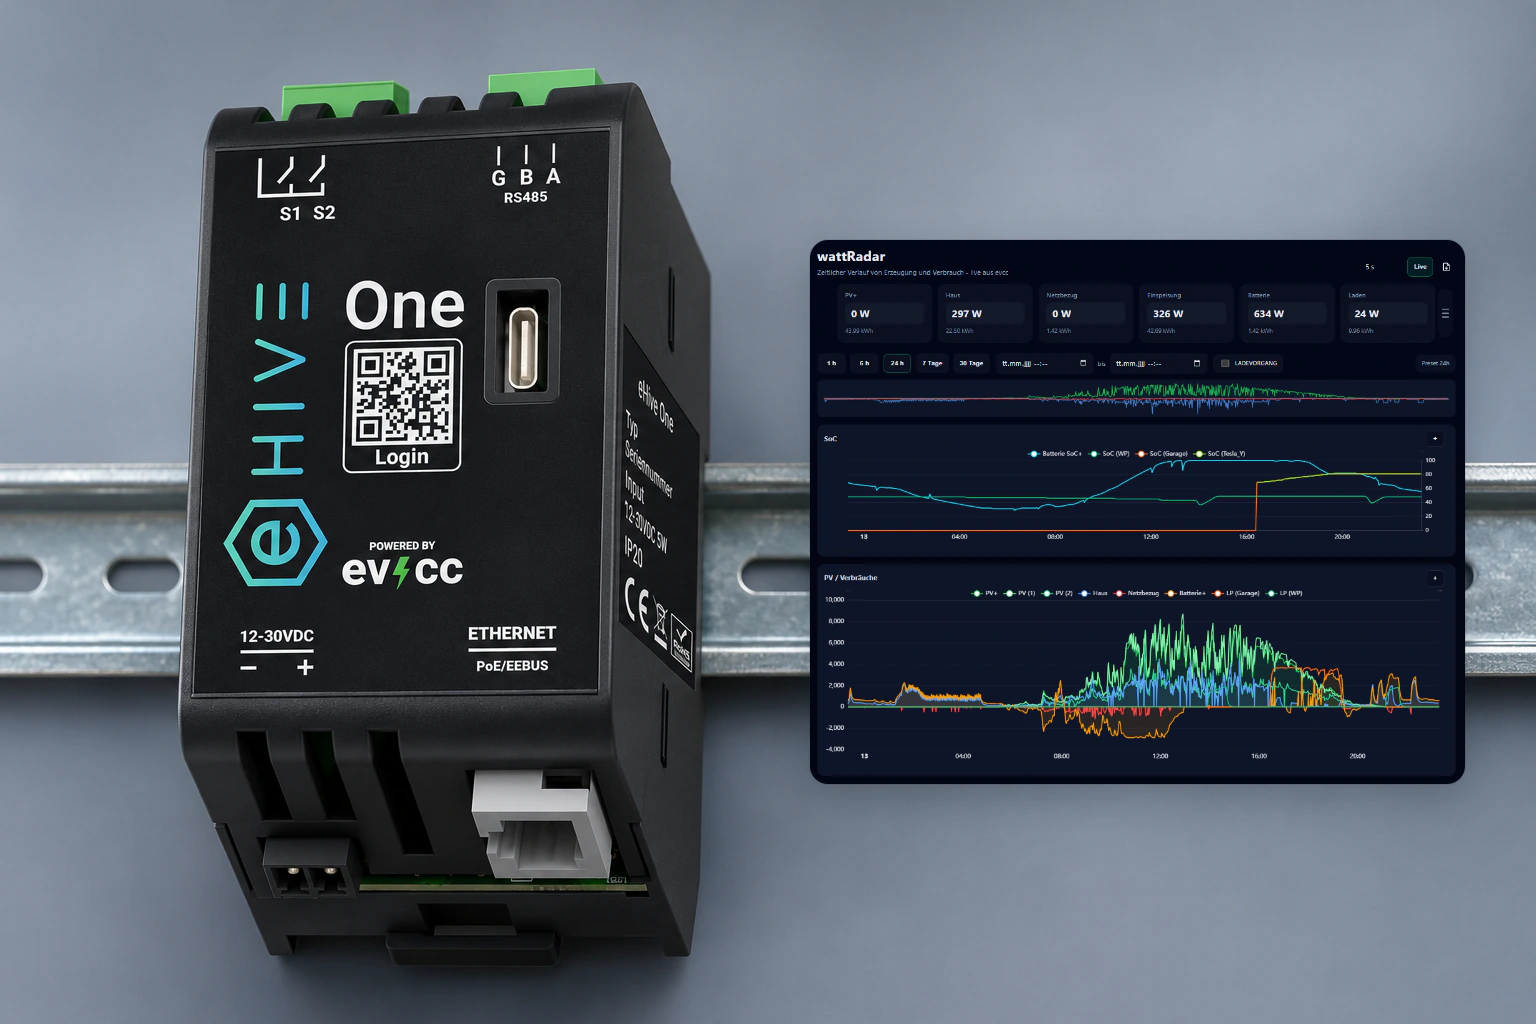
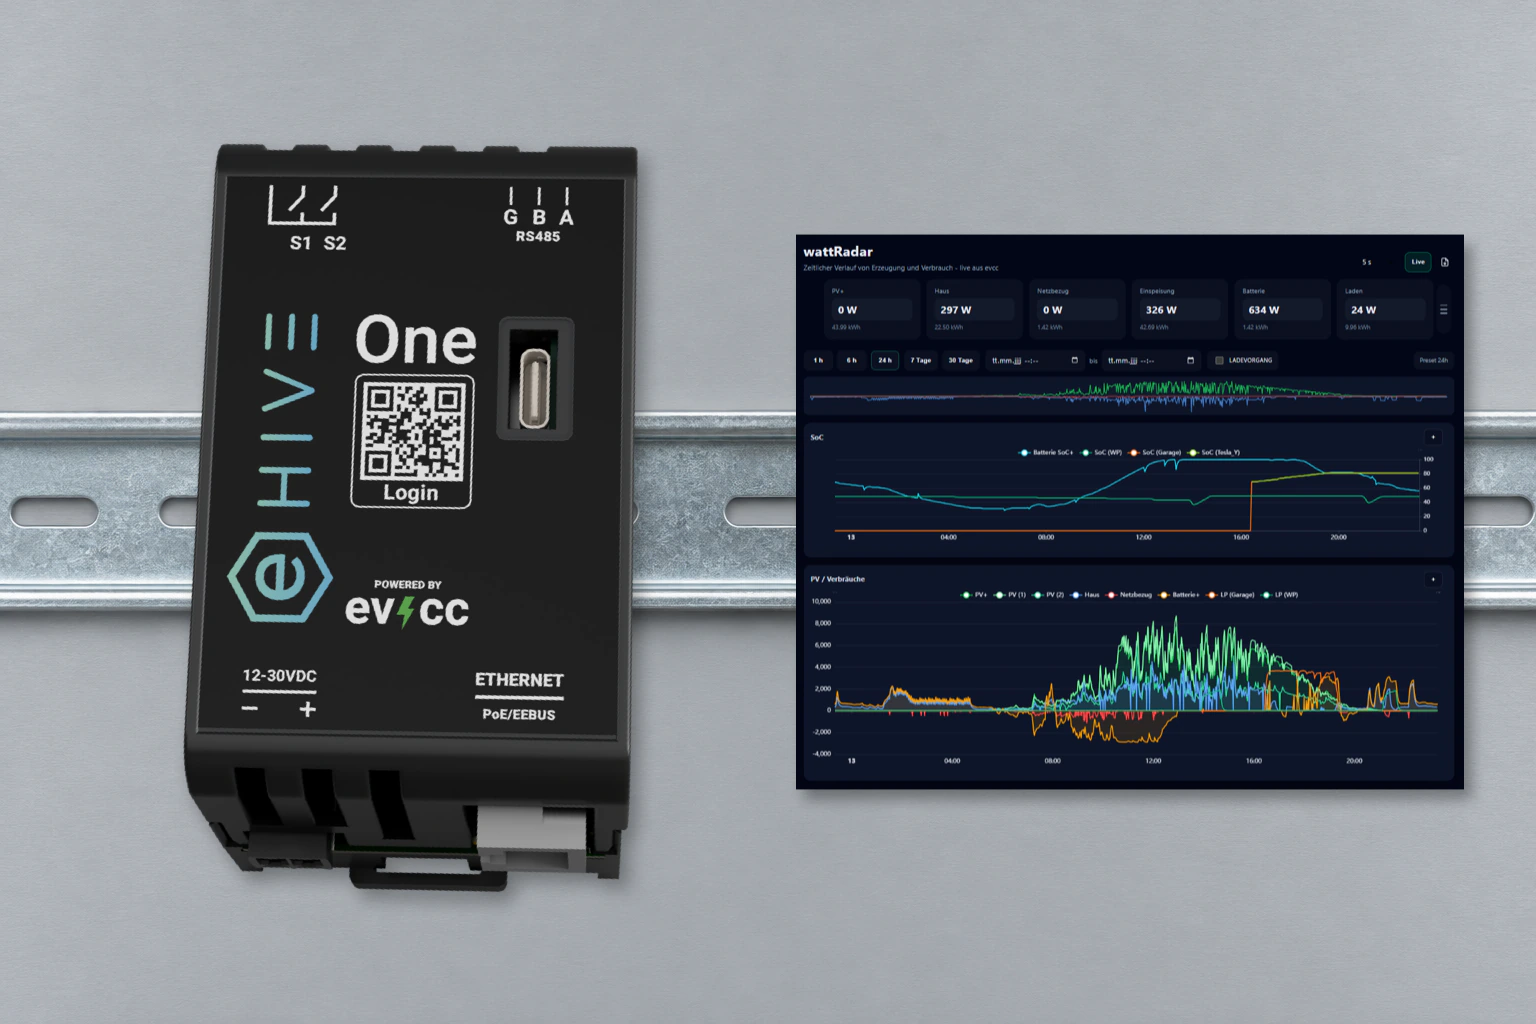
Hutschienenmotive aus unveränderten eHive-Originalbildern montieren

diff --git a/news-hems-freie-herstellerwahl-intelligente-optimierung.html b/news-hems-freie-herstellerwahl-intelligente-optimierung.html
@@ -70,7 +70,7 @@
     <figcaption>Die App-Auswahl im SmartHub</figcaption>
   </figure>
   <figure>
-    <a href="img/news/hems/ehive-one-hutschiene-klemmen-ladeplanung.webp" target="_blank" rel="noopener"><img class="news-preview-image" src="img/news/hems/ehive-one-hutschiene-klemmen-ladeplanung.webp" alt="Blick von oben auf die grünen Anschlussklemmen des eHive One auf der Hutschiene. Daneben zeigt der Ladeplan Abfahrtszeit, Ladeziel und Strompreise." width="1536" height="1024" loading="lazy" decoding="async"></a>
+    <a href="img/news/hems/ehive-one-hutschiene-klemmen-ladeplanung.webp" target="_blank" rel="noopener"><img class="news-preview-image" src="img/news/hems/ehive-one-hutschiene-klemmen-ladeplanung.webp" alt="Frontansicht des eHive One auf der Hutschiene mit grünen Anschlussklemmen am oberen Rand. Daneben zeigt der Ladeplan Abfahrtszeit, Ladeziel und Strompreise." width="1536" height="1024" loading="lazy" decoding="async"></a>
     <figcaption>Ladeplanung mit Abfahrtszeit und Ladeziel</figcaption>
   </figure>
   <figure>

diff --git a/img/news/hems/SOURCES.md b/img/news/hems/SOURCES.md
@@ -11,24 +11,20 @@ Copyright (c) 2023 evcc-io. MIT-Lizenz: siehe LICENSE-evcc-docs.txt.
 
 `herstellerwahl.svg`: eigene eHive-Illustration. Verbindungen zeigen die gemeinsame Integration, keine Rückspeisung aus dem Fahrzeug.
 
-`ehive-one-hutschiene-aktuell.jpg`: weboptimierte Fassung von `15_Produktunterlagen/Übergabe/8_Produktbilder/eHive_One_Hutschiene_Schraegansicht_v1.0.png`, aktuelles eHive-Produktmotiv vom 28.11.2026.
+Die Geräte in den Hutschienenmontagen stammen aus den freigestellten Originaldateien `eHive_v133_10.png` (frontal) und `eHive_v133_4.png` (schräg). Die leere Hutschiene und der leere Kleinverteiler wurden mit ImageGen erstellt. Die PNG-Montagen liegen in `15_Produktunterlagen/Übergabe/8_Produktbilder/`.
 
-`ehive-one-hutschiene-v2.jpg`: weboptimierte Fassung von `eHive_One_Hutschiene_Schraegansicht_v1.1.png`; per integrierter Bildbearbeitung am 28.11.2026 durchgehende Hutschiene und leicht unscharfer Hintergrund ergänzt. Produktmotiv bleibt im Fokus.
+- `ehive-one-im-kleinverteiler.webp` zeigt das Motiv aus `eHive_One_Hutschiene_Kleinverteiler_v2.1.png`. Vorlage war `eHive_v133_10.png`.
+- `ehive-one-auf-freier-hutschiene.webp` zeigt das Motiv aus `eHive_One_Hutschiene_ohne_Verteiler_v2.1.png`. Gerätequelle war `eHive_v133_4.png`.
 
-Die beiden Hutschienenmotive vom 28.11.2026 wurden mit ImageGen anhand der eHive-Produktrenderings der Revision v133 erstellt. Die PNG-Originale liegen unter `15_Produktunterlagen/Übergabe/8_Produktbilder/`.
+Die App-Einblendungen verwenden Ausschnitte der Original-Screenshots.
 
-- `ehive-one-im-kleinverteiler.webp` zeigt das Motiv aus `eHive_One_Hutschiene_Kleinverteiler_v2.0.png`. Vorlage war `eHive_v133_10.png`.
-- `ehive-one-auf-freier-hutschiene.webp` zeigt das Motiv aus `eHive_One_Hutschiene_ohne_Verteiler_v2.0.png`. Vorlagen waren `eHive_v133_10.png` und `eHive_v133_2.png`.
+- `ehive-one-hutschiene-frontal-smarthub.webp` stammt aus `eHive_One_Hutschiene_Front_SmartHub_v3.1.png` und zeigt die App-Auswahl aus der [SmartHub-Originalaufnahme](../smarthub-1-1-77-uebersicht.png).
+- `ehive-one-hutschiene-klemmen-ladeplanung.webp` stammt aus `eHive_One_Hutschiene_Klemmen_Ladeplanung_v3.1.png` und enthält den Dialog aus dem [Original-Screenshot der Ladeplanung](ladeplan.webp). Copyright (c) 2023 evcc-io. [MIT-Lizenz](LICENSE-evcc-docs.txt).
+- `ehive-one-hutschiene-ethernet-wattradar.webp` stammt aus `eHive_One_Hutschiene_Ethernet_wattRadar_v3.1.png` und zeigt die [wattRadar-Originalaufnahme](../wattradar-original.png).
 
-Für die Hutschienenmotive mit App-Einblendungen wurden am 28.11.2026 drei Ansichten aus den Produktvorlagen v133 mit ImageGen erstellt. Die Einblendungen zeigen die Pixel der Original-Screenshots. Die PNG-Motive sind im selben Produktbilderordner abgelegt.
+Displays und Geräterahmen stammen aus den Original-WebP-Dateien des offiziellen Media-Kits. Die PNG-Motive liegen im oben genannten Produktbilderordner. Copyright (c) 2021 Michael Geers. [Media-Kit](https://github.com/evcc-io/evcc.io/tree/a75b4cdeaabf8f64af398701cb2aa481491367d0/static/media-kit/screenshots) · [MIT-Lizenz](LICENSE-evcc-media-kit.txt).
 
-- `ehive-one-hutschiene-frontal-smarthub.webp` stammt aus `eHive_One_Hutschiene_Front_SmartHub_v3.0.png` und zeigt die App-Auswahl aus der [SmartHub-Originalaufnahme](../smarthub-1-1-77-uebersicht.png).
-- `ehive-one-hutschiene-klemmen-ladeplanung.webp` stammt aus `eHive_One_Hutschiene_Klemmen_Ladeplanung_v3.0.png` und enthält den Dialog aus dem [Original-Screenshot der Ladeplanung](ladeplan.webp). Copyright (c) 2023 evcc-io. [MIT-Lizenz](LICENSE-evcc-docs.txt).
-- `ehive-one-hutschiene-ethernet-wattradar.webp` stammt aus `eHive_One_Hutschiene_Ethernet_wattRadar_v3.0.png` und zeigt die [wattRadar-Originalaufnahme](../wattradar-original.png).
-
-Für die vier iPhone- und iPad-Motive wurden die eHive-Produktrenderings v133 mit ImageGen auf einer freien Hutschiene inszeniert. Displays und Geräterahmen stammen aus den Original-WebP-Dateien des offiziellen Media-Kits. Die PNG-Motive liegen im oben genannten Produktbilderordner. Copyright (c) 2021 Michael Geers. [Media-Kit](https://github.com/evcc-io/evcc.io/tree/a75b4cdeaabf8f64af398701cb2aa481491367d0/static/media-kit/screenshots) · [MIT-Lizenz](LICENSE-evcc-media-kit.txt).
-
-- `ehive-one-hutschiene-iphone-pv-laden.webp` – `eHive_One_Hutschiene_iPhone_PVLaden_v4.0.png` mit der [Originalansicht „PV-Laden auf dem iPhone“](https://github.com/evcc-io/evcc.io/blob/a75b4cdeaabf8f64af398701cb2aa481491367d0/static/media-kit/screenshots/1_small_main_2_light.webp).
-- `ehive-one-hutschiene-iphone-abfahrtsplan.webp` – `eHive_One_Hutschiene_iPhone_Abfahrtsplan_v4.0.png` mit der [Originalansicht „Abfahrtszeit und Ladeziel auf dem iPhone“](https://github.com/evcc-io/evcc.io/blob/a75b4cdeaabf8f64af398701cb2aa481491367d0/static/media-kit/screenshots/2_small_plan_departure_dark.webp).
-- `ehive-one-hutschiene-ipad-energiefluss.webp` – `eHive_One_Hutschiene_iPad_Energiefluss_v4.0.png` mit der [Originalansicht „Energiefluss und zwei Ladepunkte auf dem iPad“](https://github.com/evcc-io/evcc.io/blob/a75b4cdeaabf8f64af398701cb2aa481491367d0/static/media-kit/screenshots/7_large_main_energyflow_light.webp).
-- `ehive-one-hutschiene-ipad-solarstatistik.webp` – `eHive_One_Hutschiene_iPad_Solarstatistik_v4.0.png` mit der [Originalansicht „Solar- und Netzanteil der Ladungen auf dem iPad“](https://github.com/evcc-io/evcc.io/blob/a75b4cdeaabf8f64af398701cb2aa481491367d0/static/media-kit/screenshots/6_large_total_solar_dark.webp).
+- `ehive-one-hutschiene-iphone-pv-laden.webp` – `eHive_One_Hutschiene_iPhone_PVLaden_v4.1.png` mit der [Originalansicht „PV-Laden auf dem iPhone“](https://github.com/evcc-io/evcc.io/blob/a75b4cdeaabf8f64af398701cb2aa481491367d0/static/media-kit/screenshots/1_small_main_2_light.webp).
+- `ehive-one-hutschiene-iphone-abfahrtsplan.webp` – `eHive_One_Hutschiene_iPhone_Abfahrtsplan_v4.1.png` mit der [Originalansicht „Abfahrtszeit und Ladeziel auf dem iPhone“](https://github.com/evcc-io/evcc.io/blob/a75b4cdeaabf8f64af398701cb2aa481491367d0/static/media-kit/screenshots/2_small_plan_departure_dark.webp).
+- `ehive-one-hutschiene-ipad-energiefluss.webp` – `eHive_One_Hutschiene_iPad_Energiefluss_v4.1.png` mit der [Originalansicht „Energiefluss und zwei Ladepunkte auf dem iPad“](https://github.com/evcc-io/evcc.io/blob/a75b4cdeaabf8f64af398701cb2aa481491367d0/static/media-kit/screenshots/7_large_main_energyflow_light.webp).
+- `ehive-one-hutschiene-ipad-solarstatistik.webp` – `eHive_One_Hutschiene_iPad_Solarstatistik_v4.1.png` mit der [Originalansicht „Solar- und Netzanteil der Ladungen auf dem iPad“](https://github.com/evcc-io/evcc.io/blob/a75b4cdeaabf8f64af398701cb2aa481491367d0/static/media-kit/screenshots/6_large_total_solar_dark.webp).
